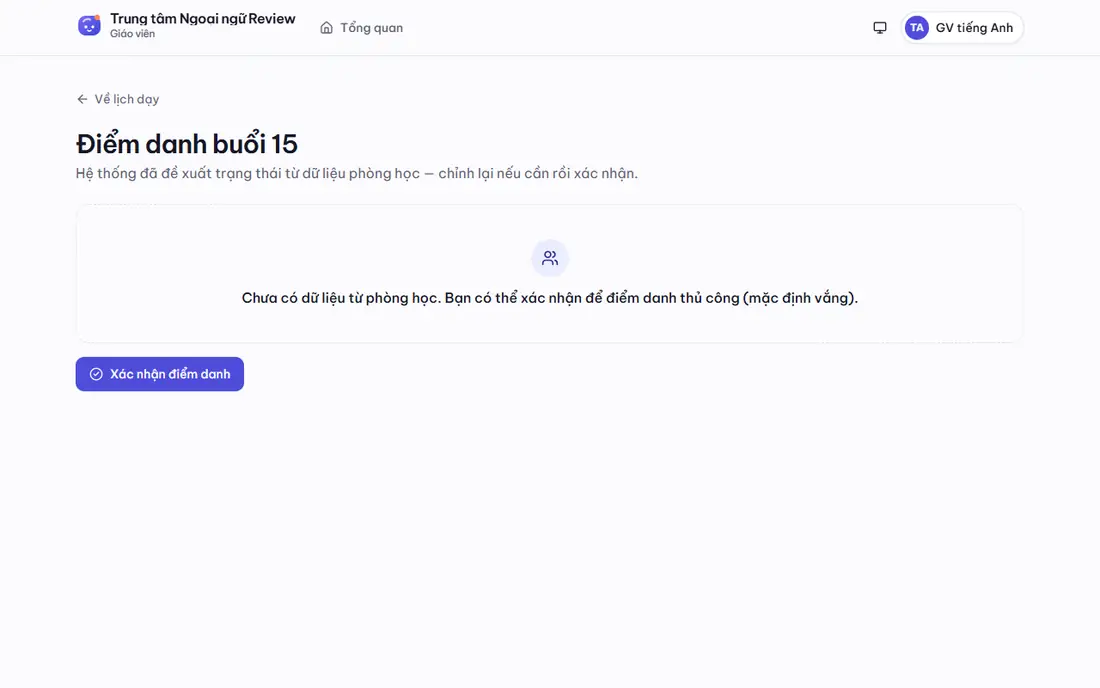
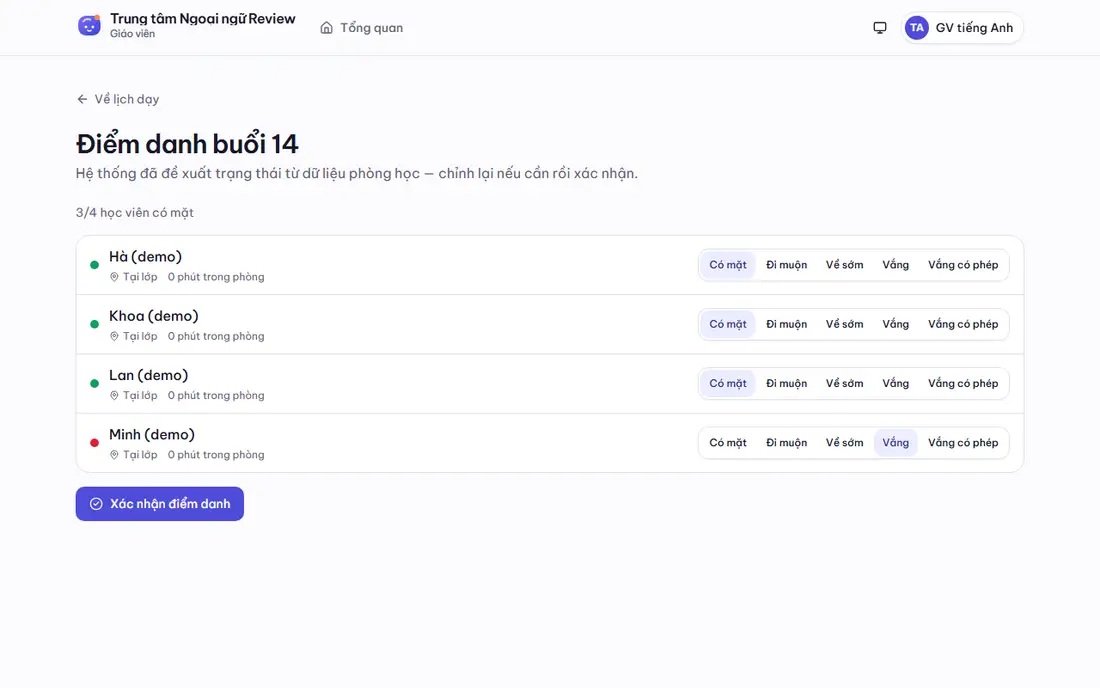
Hướng dẫn: xin nghỉ, học bù, đổi hình thức, lớp linh hoạt trong docs/huong-dan
Trang học viên, giáo viên (danh sách điểm danh theo chỗ đã đặt, nhãn Học bù; bỏ ghi chú
hạn chế lớp tại cơ sở), điều phối (màn Học bù), quản trị (quy tắc đặt buổi), quy tắc, quy
trình, câu hỏi thường gặp, thuật ngữ; ảnh chụp mới và chụp lại Mở lớp, điểm danh tại cơ sở.

diff --git a/docs/huong-dan/dieu-phoi.md b/docs/huong-dan/dieu-phoi.md
@@ -6,7 +6,7 @@ Vai trò **Điều phối** lo lớp học và lịch: mở lớp, xếp lịch,
 
 | Được làm | Chỉ xem | Không có |
 | --- | --- | --- |
-| Lớp học: mở, sửa, xếp lịch, sửa lịch tuần, kết thúc, huỷ, mở lại. Phòng học, ngày nghỉ của cơ sở. Học viên: thêm, sửa, ngừng dùng, cấp tài khoản | Mọi lớp, chương trình, danh sách cơ sở | Lead, thu phí, nhân sự, kỳ lương, xuất CSV / in, bảo mật |
+| Lớp học: mở, sửa, xếp lịch, sửa lịch tuần, kết thúc, huỷ, mở lại. Phòng học, ngày nghỉ của cơ sở. Học bù: xếp tay, từ chối. Học viên: thêm, sửa, ngừng dùng, cấp tài khoản | Mọi lớp, chương trình, danh sách cơ sở, quy tắc đặt buổi, học viên xin nghỉ nhiều | Lead, thu phí, nhân sự, kỳ lương, xuất CSV / in, bảo mật, sửa quy tắc đặt buổi |
 
 ![Tổng quan của điều phối](images/dieu-phoi-tong-quan.webp)
 
@@ -19,7 +19,7 @@ Vai trò **Điều phối** lo lớp học và lịch: mở lớp, xếp lịch,
 ### Mở lớp
 
 1. Bấm **Mở lớp**.
-2. Điền **Mã** (duy nhất trong trung tâm), **Cấp độ** (theo chương trình), **Cơ sở** (lớp online chọn cơ sở Online), **Hình thức** (Online / Tại lớp / Kết hợp), **Sĩ số tối đa**, **Khai giảng**.
+2. Điền **Mã** (duy nhất trong trung tâm), **Cấp độ** (theo chương trình), **Cơ sở** (lớp online chọn cơ sở Online), **Hình thức** (Online / Tại lớp / Kết hợp), **Sĩ số tối đa**, **Khai giảng**, **Cách đặt buổi**: **Lịch cố định** (học viên của lớp học mọi buổi) hoặc **Linh hoạt (tự đặt buổi)** (học viên mua gói rồi tự đặt từng buổi, hợp với câu lạc bộ nói).
 3. Bấm **Lưu**. Lớp mới ở trạng thái **Đang tuyển** và chưa có lịch.
 
 ![Mở lớp](images/lop-hoc-mo-lop.webp)
@@ -55,7 +55,8 @@ Bấm **Sửa** trên trang chi tiết.
 
 ![Sửa lớp](images/lop-hoc-sua.webp)
 
-- **Mã**, **Hình thức** và **Sĩ số tối đa** đổi lúc nào cũng được. Sĩ số không nhỏ hơn số học viên đang giữ chỗ. Đổi hình thức (ví dụ Online → Tại lớp) áp cho mọi buổi chưa diễn ra.
+- **Mã**, **Hình thức** và **Sĩ số tối đa** đổi lúc nào cũng được. Sĩ số không nhỏ hơn số học viên đang giữ chỗ. Đổi hình thức (ví dụ Online → Tại lớp) áp cho mọi buổi chưa diễn ra; chỗ của học viên trong các buổi đó chuyển theo.
+- **Cách đặt buổi** chỉ đổi được khi lớp chưa có học viên.
 - **Cấp độ**, **Cơ sở**, **Khai giảng** chỉ đổi được **trước khi xếp lịch** (cấp độ còn cần lớp chưa có học viên); sau đó hiện "Đã khoá vì lớp đã xếp lịch hoặc có học viên". Muốn dời ngày bắt đầu khi đã có lịch: dùng **Sửa lịch tuần**.
 
 ### Sửa lịch tuần (đổi giờ, đổi ngày, đổi giáo viên, đổi phòng)
@@ -99,6 +100,32 @@ Ngày nghỉ chỉ được dùng khi **xếp** hoặc **xếp lại** lịch. B
 
 Điều phối thêm, sửa, ngừng dùng hồ sơ học viên và cấp tài khoản như mô tả ở [Khu vực Vận hành → Học viên](van-hanh-chung.md#học-viên).
 
-## Bảo lưu, chuyển lớp, học bù
+## Học bù và xin nghỉ
+
+Học viên tự xin nghỉ và tự đặt buổi bù trên cổng học viên (xem [Học viên → Lịch học](hoc-vien.md#lịch-học-xin-nghỉ-học-bù-đổi-hình-thức)). Mục **Học bù** ở thanh bên (ngay dưới **Lớp học**) dành cho các việc giáo vụ cần làm tay:
+
+![Màn Học bù và xin nghỉ](images/hoc-bu.webp)
+
+### Xếp học bù ngoại lệ
+
+Khung **Yêu cầu học bù cần xếp** liệt kê học viên không tìm được buổi cùng bài và đã bấm **Nhờ giáo vụ xếp**: học viên, lớp, buổi nghỉ, hạn quyền, ghi chú.
+
+1. Bấm **Xếp buổi bù**.
+2. Chọn **Buổi**: các buổi sắp tới cùng cấp độ ở lớp khác; buổi cùng bài ghi "cùng bài" và đứng đầu.
+3. Chọn **Hình thức** (để **Theo buổi học** nếu buổi chỉ có một hình thức), bấm **Xếp buổi bù**.
+
+![Xếp buổi bù bằng tay](images/hoc-bu-xep-tay.webp)
+
+Xếp tay được vượt số chỗ học bù của buổi và hạn của quyền học bù, nhưng buổi phải còn chỗ ngồi (báo "Buổi này đã hết chỗ." nếu đầy). Không xếp được thì bấm **Từ chối**: học viên không dùng quyền đó nữa.
+
+### Học viên xin nghỉ nhiều
+
+Khung **Học viên xin nghỉ nhiều** liệt kê học viên xin nghỉ **từ 2 lần trong 60 ngày** qua, kèm lớp, số lần và lần gần nhất: dấu hiệu sắp bỏ học, nên gọi hỏi thăm.
+
+### Quy tắc đặt buổi
+
+Khung **Quy tắc đặt buổi** cho xem các mốc đang áp dụng: hạn xin nghỉ, số lần xin nghỉ mỗi khoá, hạn quyền học bù, hạn đổi hình thức, số chỗ học bù mỗi buổi, thời gian giữ chỗ cho hàng chờ. Chỉ quản trị sửa được (xem [Quản trị → Quy tắc đặt buổi](quan-tri-trung-tam.md#quy-tắc-đặt-buổi)).
+
+## Bảo lưu, chuyển lớp
 
 Chưa có trên giao diện. Xem cách xử lý tạm thời ở [Quy trình: bảo lưu và nghỉ học](quy-trinh.md#5-bảo-lưu-và-nghỉ-học).

diff --git a/docs/huong-dan/hoc-vien.md b/docs/huong-dan/hoc-vien.md
@@ -2,7 +2,7 @@
 
 [← Mục lục](README.md)
 
-Cổng học viên (`/learn`) cho bạn biết còn bao nhiêu buổi, buổi kế tiếp lúc nào, có nút vào lớp online, video xem lại và lịch sử đóng học phí.
+Cổng học viên (`/learn`) cho bạn biết còn bao nhiêu buổi, buổi kế tiếp lúc nào, có nút vào lớp online, video xem lại và lịch sử đóng học phí. Mục **Lịch học** để xin nghỉ, đặt buổi bù, đổi học online / tại cơ sở và đặt buổi lớp linh hoạt.
 
 ## Đăng nhập lần đầu
 
@@ -31,6 +31,55 @@ Giờ học hiển thị theo giờ của trung tâm (cơ sở của lớp).
 Nếu số buổi âm, trang hiện dòng đỏ **Đang nợ … buổi — vui lòng gia hạn gói học.** Bạn vẫn học được, nhưng cần liên hệ trung tâm để mua gói mới. Khi chỉ còn 3 buổi trở xuống, bạn nhận email "Sắp hết buổi" (nếu hồ sơ có email).
 
 Thẻ **Cách dùng cổng học viên** ở đầu trang tóm tắt các việc trên; bấm **×** để ẩn, **Hướng dẫn nhanh** để hiện lại.
+
+## Lịch học: xin nghỉ, học bù, đổi hình thức
+
+Mục **Lịch học** liệt kê các buổi trong 60 ngày tới mà bạn có chỗ: buổi của lớp mình, buổi học bù và buổi đã đặt ở lớp linh hoạt. Mỗi buổi ghi lớp, số buổi, giờ, hình thức (**Trực tuyến** / **Tại cơ sở**) và trạng thái: **Đã đặt**, **Đã xin nghỉ**, **Đã học**, **Vắng**. Buổi học bù có thêm nhãn **Học bù**, buổi lớp linh hoạt có nhãn **Lớp linh hoạt**. Phụ huynh có nhiều con thấy thêm dòng "Cho …".
+
+![Lịch học của học viên](images/hoc-vien-lich-hoc.webp)
+
+### Xin nghỉ một buổi
+
+1. Ở buổi muốn nghỉ, bấm **Xin nghỉ**, rồi bấm **OK** để xác nhận.
+2. Buổi chuyển **Đã xin nghỉ**: buổi đó **không bị trừ**, và bạn nhận một **quyền học bù** trong khung **Quyền học bù**.
+
+Dưới mỗi buổi có dòng "Xin nghỉ trước …" cho biết hạn chót. Mặc định:
+
+- phải xin nghỉ **trước giờ học ít nhất 12 giờ**; quá hạn thì nút **Xin nghỉ** ẩn đi, dòng "Đã qua hạn xin nghỉ" hiện ra và nếu vắng, buổi vẫn bị trừ như bình thường;
+- mỗi khoá xin nghỉ **tối đa 3 lần**;
+- quyền học bù dùng trong **30 ngày**.
+
+Trung tâm có thể đổi các mốc này (xem [Quy tắc: xin nghỉ và học bù](quy-tac-nghiep-vu.md#xin-nghỉ-học-bù-và-chỗ-ngồi)).
+
+### Đặt buổi bù
+
+1. Trong khung **Quyền học bù**, ở quyền **Chưa dùng**, bấm **Đặt buổi bù**.
+2. Trang **Chọn buổi học bù** liệt kê các buổi **cùng bài** ở lớp khác (cùng chương trình, cùng cấp độ) trước khi quyền hết hạn, kèm số chỗ còn: online, tại cơ sở và chỗ học bù.
+3. Bấm **Đặt buổi này**. Lớp kết hợp có hai nút **Đặt (Tại cơ sở)** / **Đặt (Trực tuyến)**.
+
+![Chọn buổi học bù](images/hoc-vien-chon-buoi-bu.webp)
+
+Buổi bù hiện trong **Lịch học** với nhãn **Học bù** và có nút **Vào lớp** như buổi thường. Khi có mặt, buổi bù trừ **một buổi** trong gói của lớp mình.
+
+- Buổi đã hết chỗ ghi **Hết chỗ** và có nút **Vào hàng chờ**: khi có người huỷ, trung tâm giữ chỗ cho người đầu hàng **2 giờ**. Chỗ giữ hiện ở đầu trang **Lịch học** (khung **Chỗ đang giữ cho bạn**): bấm **Nhận chỗ** hoặc **Bỏ qua**. Hết 2 giờ không bấm thì chỗ chuyển cho người kế.
+- Không có buổi nào phù hợp: điền ghi chú (không bắt buộc) và bấm **Nhờ giáo vụ xếp**. Quyền học bù có nhãn **Đã nhờ giáo vụ xếp**; giáo vụ xếp tay rồi buổi hiện trong **Lịch học**.
+- Đổi ý: bấm **Huỷ đặt** ở buổi học bù (trước hạn xin nghỉ); quyền học bù quay lại để đặt buổi khác.
+
+### Đổi học online hoặc tại cơ sở (lớp kết hợp)
+
+Ở buổi của lớp **Kết hợp**, bấm **Chuyển sang Tại cơ sở** hoặc **Chuyển sang Trực tuyến**. Nút chỉ hiện khi hình thức kia **còn chỗ** và còn **trước giờ học 2 giờ**; dòng "Đổi trước … · còn … chỗ" cho biết hạn và số chỗ. Chỗ tại cơ sở không vượt sức chứa phòng học.
+
+### Lớp linh hoạt
+
+Lớp linh hoạt (câu lạc bộ nói, lớp giao tiếp) không có lịch cố định: bạn mua gói rồi tự đặt từng buổi.
+
+1. Trên **Lịch học**, bấm **Đặt buổi lớp linh hoạt** (chỉ hiện khi bạn đã ghi danh lớp linh hoạt).
+2. Trang **Lớp linh hoạt** liệt kê các buổi trong 4 tuần tới và số chỗ còn. Bấm **Đặt** ở buổi muốn học. Buổi đã đặt có nhãn **Đã đặt (…)** và nút **Huỷ đặt**.
+3. Buổi hết chỗ có nút **Vào hàng chờ**.
+
+![Lớp linh hoạt](images/hoc-vien-lop-linh-hoat.webp)
+
+Số buổi đặt trước không vượt số buổi còn trong gói; mỗi buổi có mặt trừ một buổi.
 
 ## Vào lớp online
 

diff --git a/docs/huong-dan/giao-vien.md b/docs/huong-dan/giao-vien.md
@@ -39,7 +39,7 @@ Lớp **Tại cơ sở** không có nút **Vào lớp**: dạy tại phòng ghi 
 Mỗi buổi phải được giáo viên **xác nhận điểm danh**. Chỉ khi xác nhận, học viên mới bị trừ buổi và bạn mới có công (lớp tại cơ sở).
 
 1. Sau buổi học, bấm **Điểm danh** cạnh buổi đó trong **Lịch dạy sắp tới**.
-2. Trang **Điểm danh buổi …** liệt kê học viên của buổi, mỗi người một nhóm nút: **Có mặt**, **Đi muộn**, **Về sớm**, **Vắng**, **Vắng có phép**. Dòng trên cùng "… / … học viên có mặt" cập nhật ngay khi bạn chọn.
+2. Trang **Điểm danh buổi …** liệt kê học viên **có chỗ trong buổi**, mỗi người một nhóm nút: **Có mặt**, **Đi muộn**, **Về sớm**, **Vắng**, **Vắng có phép**. Dòng trên cùng "… / … học viên có mặt" cập nhật ngay khi bạn chọn.
 3. Kiểm tra và chỉnh lại từng người nếu cần.
 4. Bấm **Xác nhận điểm danh**.
 
@@ -47,15 +47,17 @@ Mỗi buổi phải được giáo viên **xác nhận điểm danh**. Chỉ khi
 
 ![Điểm danh lớp online với đề xuất từ phòng học](images/diem-danh-online.webp)
 
-**Lớp tại cơ sở**: không có dữ liệu phòng học, trang chỉ ghi "Chưa có dữ liệu từ phòng học. Bạn có thể xác nhận để điểm danh thủ công (mặc định vắng)." và nút **Xác nhận điểm danh**.
+**Lớp tại cơ sở**: không có dữ liệu phòng học, nên mọi học viên mặc định **Vắng**. Chọn **Có mặt** (hoặc trạng thái khác) cho từng người rồi bấm **Xác nhận điểm danh**.
 
 ![Điểm danh lớp tại cơ sở](images/diem-danh-tai-co-so.webp)
 
-> **Hạn chế của phiên bản này:** với lớp tại cơ sở, trang **chưa hiện danh sách học viên** để chọn từng người (lỗi đã ghi nhận). Bấm **Xác nhận điểm danh** sẽ ghi **mọi học viên là Vắng** (trừ người đang bảo lưu được ghi Vắng có phép) và trừ mỗi người một buổi; bạn được ghi công đủ buổi. Vì vắng không phép cũng bị trừ buổi, số buổi của học viên vẫn đúng với người có mặt; chỉ có trạng thái có mặt / vắng là chưa đúng. Trong lúc chờ sửa:
->
-> 1. Ghi giấy (hoặc nhắn giáo vụ) tên học viên vắng **có phép** của buổi.
-> 2. Bấm **Xác nhận điểm danh** sau buổi học.
-> 3. Gửi danh sách vắng có phép cho kế toán để **cộng lại 1 buổi** cho từng người (**Điều chỉnh buổi**, cùng loại buổi với dòng **Học** của buổi đó trong sổ, lý do "Vắng có phép buổi …").
+**Danh sách lấy từ chỗ đã đặt của buổi**:
+
+- học viên đã **xin nghỉ** đúng hạn hoặc đang **bảo lưu** không có trong danh sách (không bị trừ buổi);
+- học viên lớp khác đến **học bù** có nhãn **Học bù**; nhóm nút của họ là **Học bù** (có mặt), **Vắng**, **Vắng có phép**. Học bù có mặt trừ một buổi trong gói lớp gốc của học viên;
+- dưới tên mỗi người có biểu tượng hình thức học của buổi đó: **Online** hoặc **Tại lớp** (lớp kết hợp).
+
+![Điểm danh có học viên học bù](images/diem-danh-hoc-bu.webp)
 
 **Xác nhận chỉ làm được một lần, không sửa trên giao diện.** Ngay sau đó:
 

diff --git a/docs/huong-dan/README.md b/docs/huong-dan/README.md
@@ -50,7 +50,7 @@ Mỗi trung tâm có một địa chỉ riêng (ví dụ `https://tentrungtam.ko
 | Khu vực | Đường dẫn | Ai dùng | Dùng để |
 | --- | --- | --- | --- |
 | Trang công khai | `/vi` (tiếng Việt), `/en` (tiếng Anh) | Khách, phụ huynh | Xem khoá học, đăng ký tư vấn, đọc chính sách, đăng nhập |
-| Học viên | `/learn` | Học viên, phụ huynh | Số buổi còn lại, lịch học, vào lớp, xem lại video, lịch sử thanh toán |
+| Học viên | `/learn` | Học viên, phụ huynh | Số buổi còn lại, lịch học, xin nghỉ, học bù, đặt buổi lớp linh hoạt, vào lớp, xem lại video, lịch sử thanh toán |
 | Giáo viên | `/teach` | Giáo viên | Lịch dạy, vào lớp, điểm danh, công tháng này |
 | Vận hành | `/ops` | Quản trị, quản lý cơ sở, điều phối, tư vấn, kế toán | Lead, học viên, thu phí, lớp, chương trình, nhân sự, cơ sở, kỳ lương, bảo mật, quyền riêng tư |
 
@@ -64,7 +64,8 @@ Người vận hành nền tảng Konnyaku dùng một địa chỉ riêng (`htt
 
 - Liên kết tài khoản phụ huynh với học viên (phụ huynh chưa xem được thông tin của con).
 - Đổi giờ, đổi giáo viên hay huỷ **từng buổi** (chỉ đổi được cả lịch tuần từ một ngày, xem [Đổi lịch, đổi giáo viên](quy-trinh.md#4-đổi-lịch-đổi-giáo-viên)).
-- Bảo lưu, chuyển lớp, học bù (chỉ có cho nghỉ hẳn bằng hoàn tiền, xem [Bảo lưu và nghỉ học](quy-trinh.md#5-bảo-lưu-và-nghỉ-học)).
+- Bảo lưu, chuyển lớp (chỉ có cho nghỉ hẳn bằng hoàn tiền, xem [Bảo lưu và nghỉ học](quy-trinh.md#5-bảo-lưu-và-nghỉ-học)). Xin nghỉ từng buổi và học bù đã có (xem [Học viên → Lịch học](hoc-vien.md#lịch-học-xin-nghỉ-học-bù-đổi-hình-thức)).
+- Email hay thông báo khi được mời từ hàng chờ (học viên thấy chỗ đang giữ trên trang **Lịch học**).
 - Thêm học viên vào lớp bằng tay (học viên chỉ vào lớp khi đơn hàng gắn lớp được trả đủ).
 - Sửa điểm danh sau khi đã xác nhận.
 - Thanh toán online, đăng nhập bằng Google, tự đăng ký tài khoản.

diff --git a/docs/huong-dan/quy-trinh.md b/docs/huong-dan/quy-trinh.md
@@ -102,9 +102,9 @@ Sau khi sửa lịch tuần, học viên và giáo viên của các buổi bị 
 | Học viên nghỉ hẳn, không hoàn tiền | Một phần | **Ngừng dùng** hồ sơ (không mua / vào lớp mới được). Học viên vẫn nằm trong danh sách lớp; giáo viên điểm danh **Vắng có phép** để không trừ buổi, hoặc kế toán **Điều chỉnh buổi** trừ số buổi còn lại (ghi lý do) |
 | Bảo lưu (tạm nghỉ, giữ buổi) | **Chưa có** | Giáo viên điểm danh **Vắng có phép** cho học viên trong thời gian nghỉ (không trừ buổi). Khi học viên học lại ở lớp khác: kế toán **Điều chỉnh buổi** trừ ở đơn cũ, tạo đơn mới cho lớp mới và cộng lại bằng điều chỉnh (ghi rõ lý do ở cả hai) |
 | Chuyển lớp | **Chưa có** | Như trên |
-| Nghỉ một buổi có báo trước | Có | Giáo viên chọn **Vắng có phép** cho học viên khi điểm danh |
+| Nghỉ một buổi có báo trước | Có | Học viên bấm **Xin nghỉ** trên **Lịch học** trước giờ học 12 giờ: không trừ buổi, nhận quyền học bù, rồi **Đặt buổi bù** ở lớp khác cùng bài ([Học viên → Lịch học](hoc-vien.md#lịch-học-xin-nghỉ-học-bù-đổi-hình-thức)). Không có buổi cùng bài: học viên **Nhờ giáo vụ xếp**, giáo vụ xếp ở mục **Học bù** ([Điều phối](dieu-phoi.md#xếp-học-bù-ngoại-lệ)). Báo muộn hơn hạn: giáo viên chọn **Vắng có phép** khi điểm danh nếu trung tâm đồng ý |
 
-Hệ thống đã có trạng thái **Bảo lưu** trong danh sách lớp (học viên bảo lưu tự được ghi **Vắng có phép**), nhưng chưa có nút đặt bảo lưu trên giao diện.
+Hệ thống đã có trạng thái **Bảo lưu** trong danh sách lớp (học viên bảo lưu không có chỗ trong các buổi thuộc thời gian bảo lưu nên không bị trừ buổi), nhưng chưa có nút đặt bảo lưu trên giao diện.
 
 ## 6. Quên mật khẩu, khoá tài khoản, xác thực 2 bước
 

diff --git a/docs/huong-dan/thuat-ngu.md b/docs/huong-dan/thuat-ngu.md
@@ -12,7 +12,13 @@
 | **Khung trình độ** | Thang đo năng lực: CEFR (A1–C2), JLPT (N5–N1), HSK, TOPIK, IELTS… |
 | **Cấp độ** | Một chặng của chương trình (ví dụ Sơ cấp N5) với số buổi, phút/buổi và trình độ đầu ra |
 | **Lớp** | Một nhóm học viên học một cấp độ ở một cơ sở, theo một lịch, với sĩ số tối đa |
-| **Hình thức** | Online (trực tuyến), Tại lớp (tại cơ sở), Kết hợp |
+| **Hình thức** | Online (trực tuyến), Tại lớp (tại cơ sở), Kết hợp (mỗi học viên chọn online hoặc tại cơ sở cho từng buổi) |
+| **Chỗ ngồi (của buổi)** | Chỗ của một học viên trong một buổi: online hoặc tại cơ sở. Danh sách điểm danh lấy từ chỗ ngồi |
+| **Xin nghỉ** | Học viên báo nghỉ một buổi trước hạn: không trừ buổi, nhận quyền học bù |
+| **Quyền học bù** | Quyền học một buổi cùng bài ở lớp khác, có hạn dùng |
+| **Học bù** | Buổi học ở lớp khác thay cho buổi đã xin nghỉ; có mặt thì trừ một buổi trong gói lớp gốc |
+| **Hàng chờ** | Danh sách chờ chỗ của một buổi đã đầy; chỗ trống được giữ có hạn cho người đầu hàng |
+| **Lớp linh hoạt** | Lớp không có lịch cố định cho từng học viên: mua gói rồi tự đặt từng buổi |
 | **Lịch tuần** | Các ngày trong tuần + giờ bắt đầu + giáo viên + phòng của lớp; hệ thống sinh các buổi từ đây |
 | **Buổi** | Một lần học cụ thể của lớp, gắn một bài theo thứ tự. Trạng thái: Đã xếp, Đã tạo phòng, Đang học, Đã học, Đã huỷ |
 | **Lead** (khách hàng tiềm năng) | Người để lại thông tin trên form đăng ký tư vấn, chưa là học viên. Trạng thái: Mới, Đã liên hệ, Đã nhập học, Không theo |

diff --git a/docs/huong-dan/quan-tri-trung-tam.md b/docs/huong-dan/quan-tri-trung-tam.md
@@ -22,6 +22,8 @@ Thanh bên của quản trị có thêm 3 mục **Quyền riêng tư**, **Bảo 
 | Lead | [Tư vấn](tu-van.md) |
 | Học viên | [Khu vực Vận hành → Học viên](van-hanh-chung.md#học-viên) |
 | Lớp, lịch | [Điều phối](dieu-phoi.md) |
+| Học bù ngoại lệ, học viên xin nghỉ nhiều | [Điều phối → Học bù và xin nghỉ](dieu-phoi.md#học-bù-và-xin-nghỉ) |
+| Quy tắc xin nghỉ, học bù, đổi hình thức | [Bên dưới](#quy-tắc-đặt-buổi) |
 | Gói học, đơn, thanh toán, hoàn tiền, kỳ lương | [Kế toán](ke-toan.md) |
 
 ## Cơ sở, phòng học, ngày nghỉ
@@ -96,6 +98,19 @@ Mở **Chương trình**. Mỗi chương trình là một thẻ: mã, tên, nhã
 | ![Thêm chương trình](images/chuong-trinh-them.webp) | ![Thêm cấp độ](images/cap-do-them.webp) |
 
 > Chưa có: bài học / giáo trình theo buổi, tài liệu, bài tập, bài kiểm tra.
+
+## Quy tắc đặt buổi
+
+Mục **Học bù** → khung **Quy tắc đặt buổi** → **Sửa quy tắc**. Áp dụng cho cả trung tâm, từ lúc lưu.
+
+| Ô | Mặc định | Nghĩa |
+| --- | --- | --- |
+| **Hạn xin nghỉ (giờ trước buổi học)** | 12 | Học viên xin nghỉ hoặc huỷ buổi đã đặt trước giờ học ít nhất chừng này giờ |
+| **Số lần xin nghỉ tối đa mỗi khoá** | 3 | Tính trên một ghi danh |
+| **Hạn dùng quyền học bù (ngày)** | 30 | Tính từ lúc xin nghỉ |
+| **Hạn đổi hình thức (giờ trước buổi học)** | 2 | Lớp kết hợp: đổi online / tại cơ sở |
+| **Chỗ học bù mỗi buổi** | 2 | Chỗ dành cho học viên lớp khác đến học bù, cộng thêm vào sĩ số; áp cho các buổi xếp lịch sau khi đổi |
+| **Giữ chỗ cho người trong hàng chờ (giờ)** | 2 | Thời gian chỗ trống được giữ cho người đầu hàng chờ |
 
 ## Bảo mật
 

diff --git a/docs/huong-dan/cau-hoi-thuong-gap.md b/docs/huong-dan/cau-hoi-thuong-gap.md
@@ -60,6 +60,12 @@
 | "Lớp đã xếp lịch: đổi ngày bằng “Sửa lịch tuần”." | Ngày khai giảng khoá khi đã có lịch |
 | Thêm ngày nghỉ nhưng buổi học vẫn rơi vào ngày đó | Ngày nghỉ không tự dời buổi đã xếp. **Sửa lịch tuần** áp dụng từ trước ngày nghỉ |
 | Muốn đổi giờ / giáo viên một buổi | Chưa có; xem [Đổi lịch, đổi giáo viên](quy-trinh.md#4-đổi-lịch-đổi-giáo-viên) |
+| Học viên không thấy nút **Xin nghỉ** | Đã quá hạn xin nghỉ (mặc định 12 giờ trước buổi học), buổi là buổi học bù / lớp linh hoạt (dùng **Huỷ đặt**), hoặc đã xin nghỉ đủ số lần của khoá |
+| "Bạn đã xin nghỉ đủ … lần cho khoá này." | Đã dùng hết số lần xin nghỉ; nếu trung tâm đồng ý, giáo viên chọn **Vắng có phép** khi điểm danh |
+| **Chọn buổi học bù** trống | Không có lớp khác cùng cấp độ dạy bài đó còn chỗ trong hạn; bấm **Nhờ giáo vụ xếp** |
+| "Buổi này đã hết chỗ. Bạn có thể vào hàng chờ." | Bấm **Vào hàng chờ**; khi có người huỷ, chỗ được giữ 2 giờ ở đầu trang **Lịch học** |
+| Không thấy nút **Chuyển sang Tại cơ sở** | Phòng đã đủ chỗ, hoặc còn dưới 2 giờ trước buổi học |
+| Học viên đã xin nghỉ không có trong trang điểm danh | Đúng: buổi đã xin nghỉ không điểm danh, không trừ buổi |
 | Muốn thêm học viên vào lớp không qua đơn hàng (học thử, học bổng) | Chưa có; học viên chỉ vào lớp khi đơn gắn lớp được trả đủ |
 
 ## Quyền và dữ liệu
